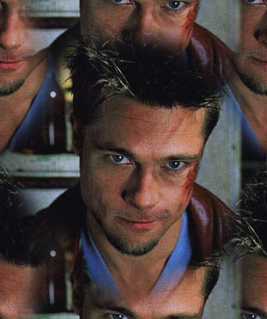
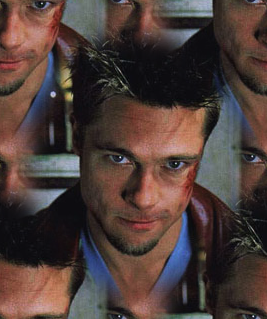
more tiles

diff --git a/lib/tyler.rb b/lib/tyler.rb
@@ -17,29 +17,10 @@ class Tyler
 
 			result = v.roll(x_,y_).dissolve v, 1.0
 			result = result.roll(x_,0).dissolve v, 1.0
-			result = result.roll(0,y_).dissolve v, 1.0
+			result = result.roll(x_,y_).dissolve v, 1.0
 
 			result.alpha Magick::DeactivateAlphaChannel
 			result
 		end
 	end
 end
-
-__END__
-
-20028  file output.png
-20029  convert | grep vig
-20030  convert -vignette background.png tapered.png
-20031  convert -vignette "50x50" background.png tapered.png
-20032  open tapered.png
-20033  convert -roll "+212+197" tapered.png output.png
-20034  open output.png
-20035  l
-20036  convert | grep diso
-20037  convert | grep dis
-20038  convert | less
-20039  convert -dissolve 50 tapered.png output.png result.png
-20040  convert -dissolve 50 tapered.png output.png result.png
-20041  composite -dissolve 50 tapered.png output.png result.png
-20042  open result.png
-20043  cp result.png ~/Projects/Work/Sordina-Productions/Web-Design/Pilot/Sordina/public/images/background2.png
